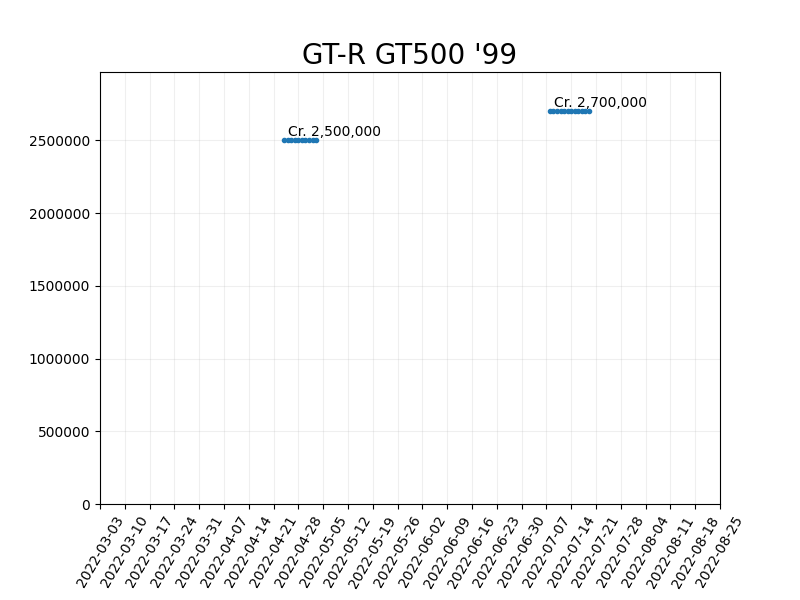
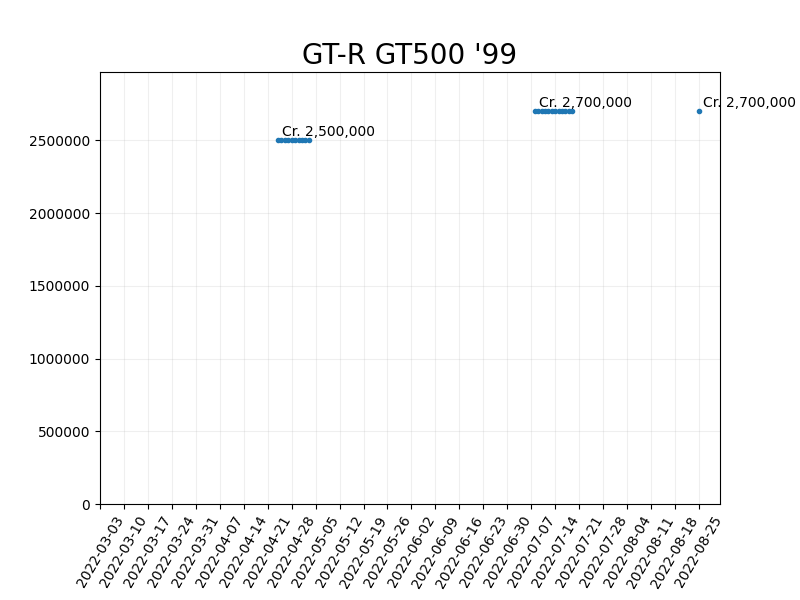
Deploying to gh-pages from @ ddm999/gt7info@7b19a04ebef6d6c23fbf29f2f7ad541fd70b8fc4 🚀

diff --git a/index.html b/index.html
@@ -15,7 +15,7 @@
   <script type="application/ld+json">
     {"@context":"https://schema.org","@type":"WebSite","headline":"GT7 Online Dealerships & Info","name":"ddm999.github.io","url":"https://ddm999.github.io/gt7info/"}
   </script>
-  <link rel="stylesheet" href="style.css?nocache=20220825222157">
+  <link rel="stylesheet" href="style.css?nocache=20220825222748">
 </head>
 <body>
   <div class="wrapper">
@@ -322,68 +322,76 @@
       Estimates may occasionally be wrong as Polyphony can technically do whatever they want.<br>
       <span class="car-container"><p class="lcar carnew">
         <img id="icon" src="img/legend-hagerty-icon.svg"/>
+        <span id="manufacturer">De Tomaso</span>
+        <span id="name">Mangusta (Christian Dior)</span>
+        <span id="credits"><span id="cr">Cr.</span> 500,000</span>
+        <span id="new">NEW</span>
+        <span id="days-estimate">No Estimate Available</span>
+      </p><p class="lcar carnew">
+        <img id="icon" src="img/legend-hagerty-icon.svg"/>
         <span id="manufacturer">Ferrari</span>
         <span id="name"><a href="cars/prices_1551.png" target="_blank">330 P4 '67</a></span>
         <span id="credits"><span id="cr">Cr.</span> 9,000,000</span>
         <span id="new">NEW</span>
-        <span id="days-estimate">Available For 8 More Days</span>
+        <span id="days-estimate">Available For 5 More Days</span>
       </p><p class="lcar">
         <img id="icon" src="img/legend-hagerty-icon.svg"/>
         <span id="manufacturer">Ferrari</span>
         <span id="name"><a href="cars/prices_2017.png" target="_blank">GTO '84</a></span>
         <span id="credits"><span id="cr">Cr.</span> 3,100,000</span>
-        <span id="days-estimate">Available For 6 More Days</span>
+        <span id="days-estimate">Available For 8 More Days</span>
       </p><p class="lcar carnew">
         <img id="icon" src="img/legend-hagerty-icon.svg"/>
         <span id="manufacturer">Lamborghini</span>
         <span id="name"><a href="cars/prices_1582.png" target="_blank">Miura P400 Bertone Prototype '67</a></span>
         <span id="credits"><span id="cr">Cr.</span> 3,400,000</span>
         <span id="new">NEW</span>
-        <span id="days-estimate">Available For 9 More Days</span>
+        <span id="days-estimate">Available For 6 More Days</span>
       </p><p class="lcar">
         <img id="icon" src="img/legend-hagerty-icon.svg"/>
         <span id="manufacturer">Porsche</span>
         <span id="name"><a href="cars/prices_3365.png" target="_blank">356 A/1500 GS GT Carrera Speedster '56</a></span>
         <span id="credits"><span id="cr">Cr.</span> 1,500,000</span>
-        <span id="days-estimate">Available For 8 More Days</span>
-      </p><p class="lcar carsold">
+        <span id="days-estimate">Available For 10 More Days</span>
+      </p><p class="lcar carnew">
         <img id="icon" src="img/legend-hagerty-icon.svg"/>
-        <span id="manufacturer">Ford</span>
-        <span id="name"><a href="cars/prices_3444.png" target="_blank">1932 Ford Roadster Hot Rod</a></span>
-        <span id="credits"><span id="cr">Cr.</span> 450,000</span>
-        <span id="soldout">SOLD OUT</span>
+        <span id="manufacturer">Alfa Romeo</span>
+        <span id="name"><a href="cars/prices_1645.png" target="_blank">GIULIA TZ2 carrozzata da ZAGATO '65</a></span>
+        <span id="credits"><span id="cr">Cr.</span> 3,450,000</span>
+        <span id="new">NEW</span>
+        <span id="days-estimate">Available For 10 More Days</span>
       </p><p class="lcar carlimited">
         <img id="icon" src="img/legend-hagerty-icon.svg"/>
         <span id="manufacturer">De Tomaso</span>
         <span id="name"><a href="cars/prices_3437.png" target="_blank">Mangusta '69</a></span>
         <span id="credits"><span id="cr">Cr.</span> 245,000</span>
         <span id="limited">Limited Stock</span>
-        <span id="days-remaining">Last Day Available</span>
+        <span id="days-estimate">Available For 3 More Days</span>
       </p><p class="lcar">
         <img id="icon" src="img/legend-hagerty-icon.svg"/>
         <span id="manufacturer">Ford</span>
         <span id="name"><a href="cars/prices_1935.png" target="_blank">GT40 Mark I '66</a></span>
         <span id="credits"><span id="cr">Cr.</span> 6,250,000</span>
-        <span id="days-estimate">Available For 5 More Days</span>
-      </p><p class="lcar carsold">
-        <img id="icon" src="img/legend-hagerty-icon.svg"/>
-        <span id="manufacturer">Mercedes-Benz</span>
-        <span id="name"><a href="cars/prices_998.png" target="_blank">Sauber Mercedes C9 '89</a></span>
-        <span id="credits"><span id="cr">Cr.</span> 3,000,000</span>
-        <span id="soldout">SOLD OUT</span>
+        <span id="days-estimate">Available For 11 More Days</span>
       </p><p class="lcar carnew">
+        <img id="icon" src="img/legend-hagerty-icon.svg"/>
+        <span id="manufacturer">Nissan</span>
+        <span id="name"><a href="cars/prices_485.png" target="_blank">GT-R GT500 '99</a></span>
+        <span id="credits"><span id="cr">Cr.</span> 2,700,000</span>
+        <span id="new">NEW</span>
+        <span id="days-estimate">Available For 9 More Days</span>
+      </p><p class="lcar">
         <img id="icon" src="img/legend-hagerty-icon.svg"/>
         <span id="manufacturer">Mercedes-Benz</span>
         <span id="name"><a href="cars/prices_387.png" target="_blank">300 SL Coupe '54</a></span>
         <span id="credits"><span id="cr">Cr.</span> 1,400,000</span>
-        <span id="new">NEW</span>
-        <span id="days-estimate">Available For 10 More Days</span>
+        <span id="days-estimate">Available For 7 More Days</span>
       </p><p class="lcar">
         <img id="icon" src="img/legend-hagerty-icon.svg"/>
         <span id="manufacturer">Nissan</span>
         <span id="name"><a href="cars/prices_837.png" target="_blank">Skyline Hard Top 2000GT-R (KPGC10) '70</a></span>
         <span id="credits"><span id="cr">Cr.</span> 140,000</span>
-        <span id="days-estimate">Available For 7 More Days</span>
+        <span id="days-estimate">Available For 11 More Days</span>
       </p></span>
       <span id="back-to-top"><a href="#navigation">Back to top</a></span>
     </section>
